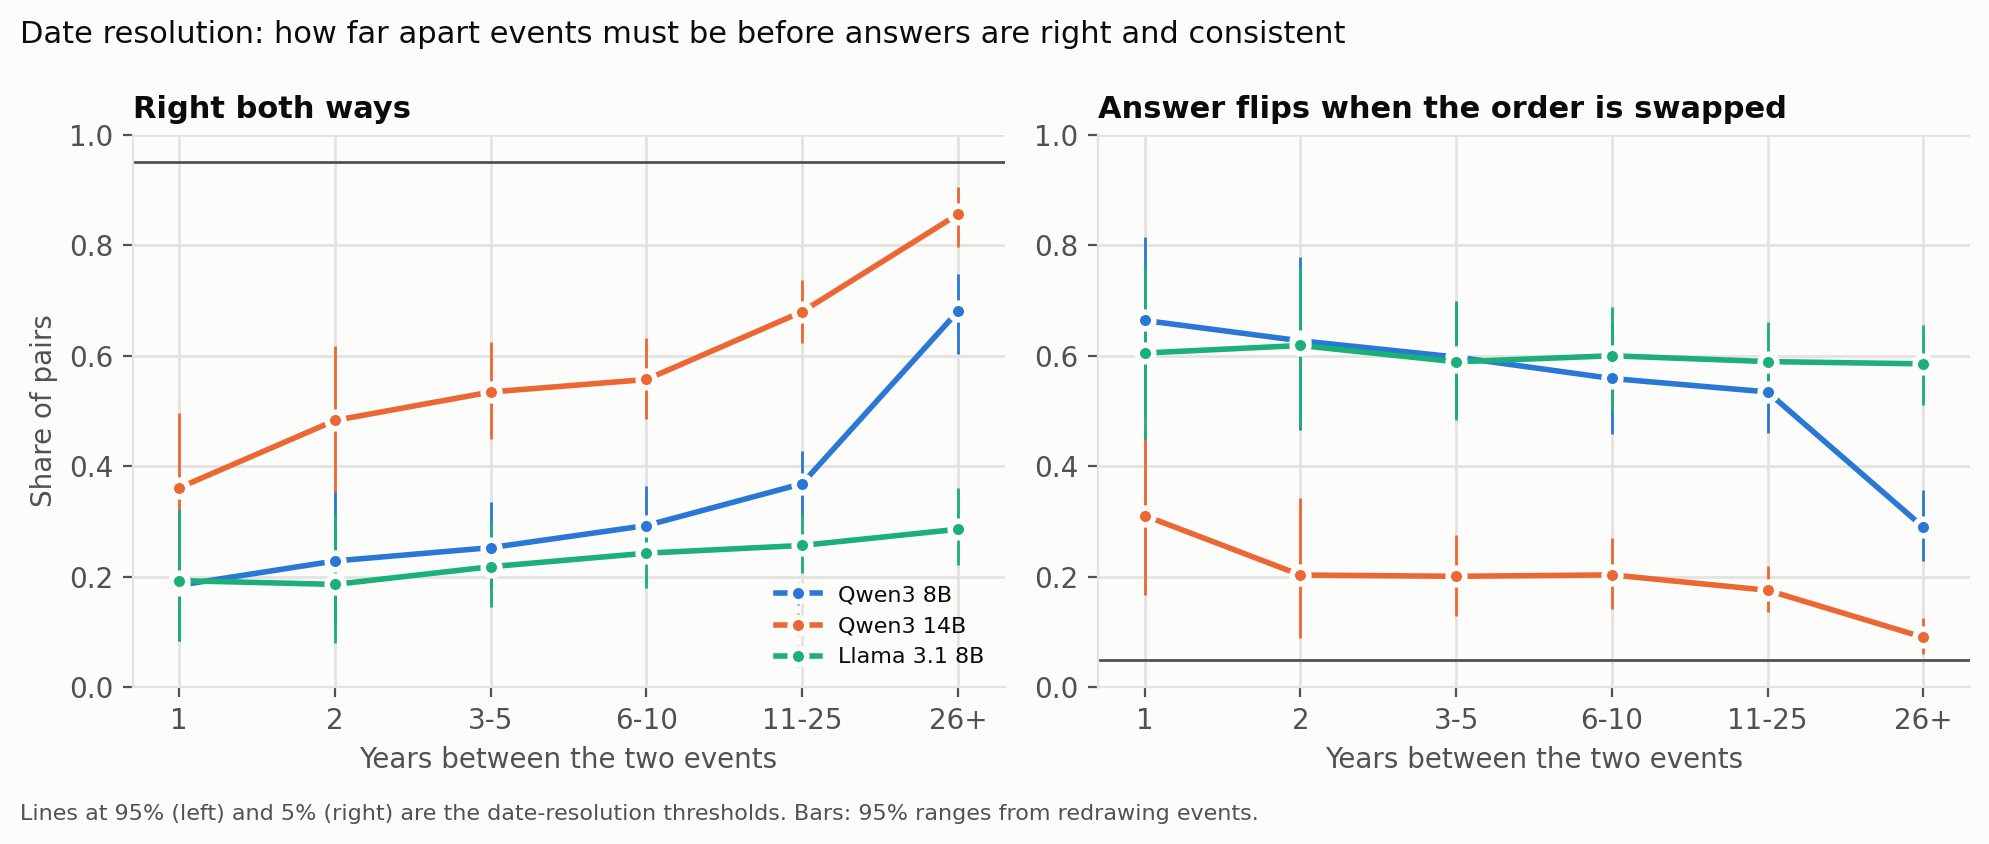
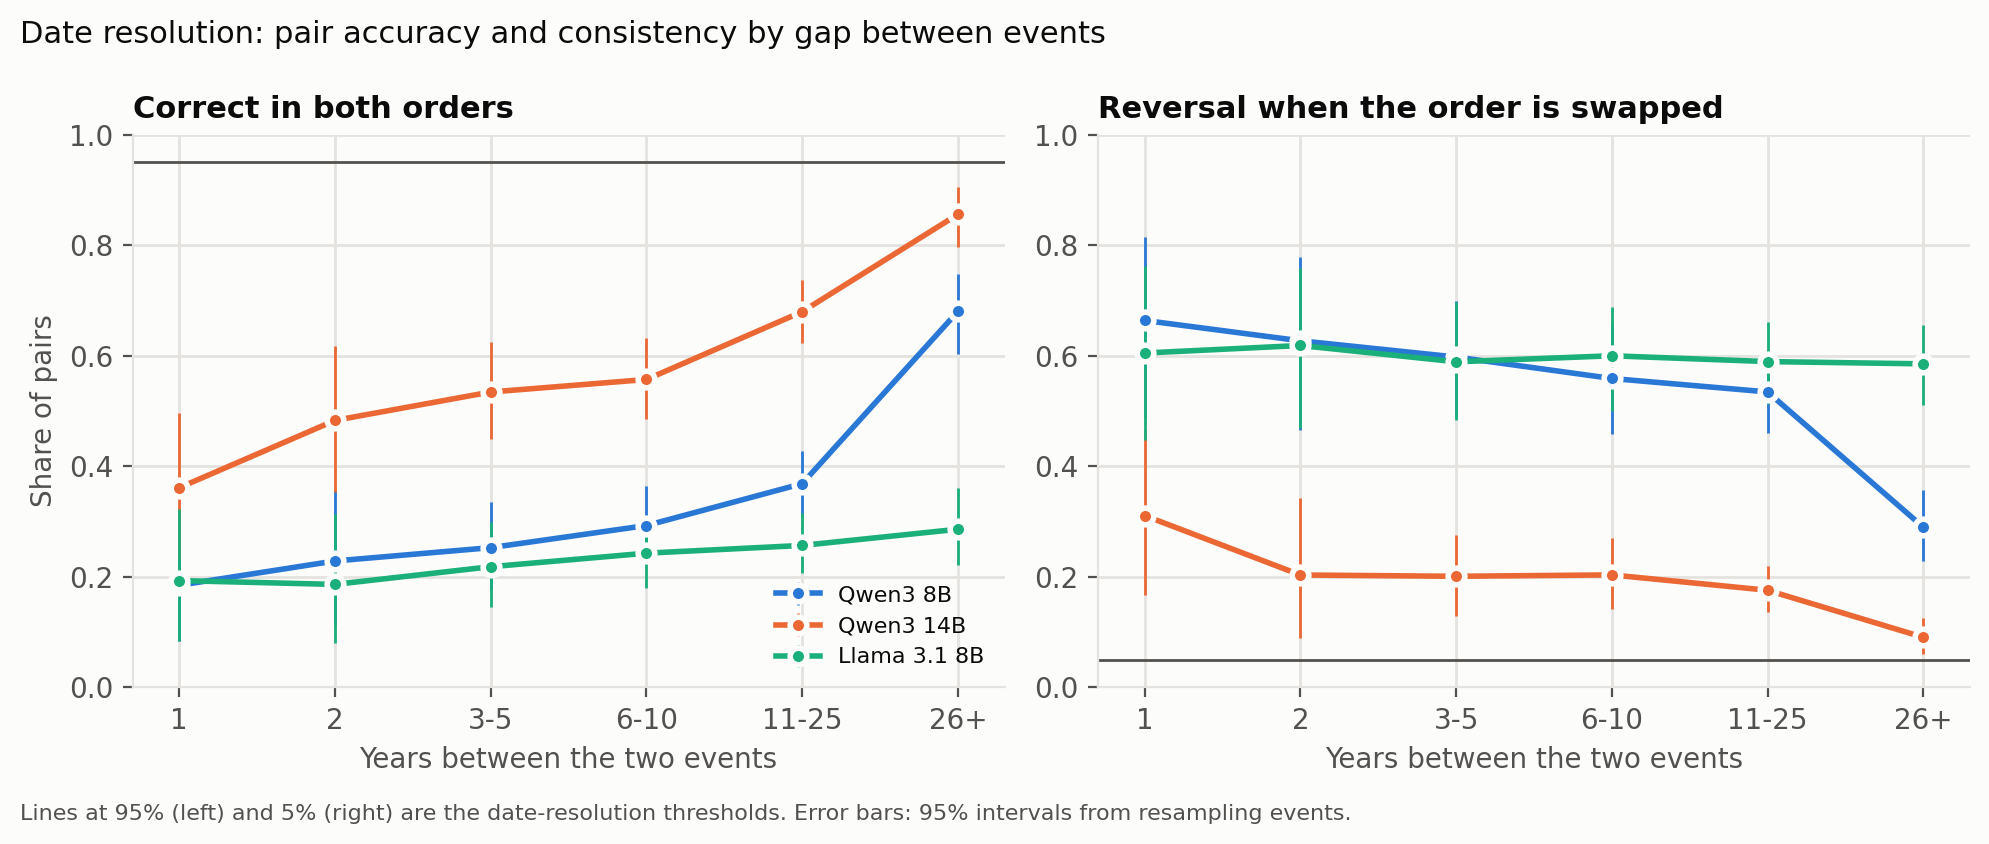
Pre-publication pass: report all pre-registered list measures, align figure labels with the report, cite license sources, add requirements.txt

diff --git a/src/make_figures.py b/src/make_figures.py
@@ -23,7 +23,7 @@ SURFACE, INK, MUTED, GRID = "#fcfcfb", "#0b0b0b", "#52514e", "#e4e3df"
 SLOT = ["#2a78d6", "#eb6834", "#1baf7a"]
 GRAY = "#a9a8a2"
 NAMES = {"qwen3-8b-nothink": "Qwen3 8B", "qwen3-14b-nothink": "Qwen3 14B",
-         "qwen3-8b-think": "Qwen3 8B, thinking on", "llama3.1-8b": "Llama 3.1 8B"}
+         "qwen3-8b-think": "Qwen3 8B, reasoning enabled", "llama3.1-8b": "Llama 3.1 8B"}
 # gpt-oss-20b-low was skipped and llama3.1-8b added (PREREG.md Deviations, Oct 12, 2026).
 PAIR_SETUPS = ["qwen3-8b-nothink", "qwen3-14b-nothink", "llama3.1-8b"]
 LIST_SETUPS = ["qwen3-8b-nothink", "qwen3-14b-nothink", "llama3.1-8b", "qwen3-8b-think"]
@@ -68,8 +68,8 @@ def fig_date_resolution(res):
         return
     fig, axes = plt.subplots(1, 2, figsize=(10, 4), sharex=True)
     rows = []
-    for panel, (kind, title, ref) in enumerate([("stable-right", "Right both ways", 0.95),
-                                                 ("flip", "Answer flips when the order is swapped", 0.05)]):
+    for panel, (kind, title, ref) in enumerate([("stable-right", "Correct in both orders", 0.95),
+                                                 ("flip", "Reversal when the order is swapped", 0.05)]):
         ax = axes[panel]
         for s in setups:
             k = PAIR_SETUPS.index(s)  # color follows the model, not how many models have data yet
@@ -95,10 +95,10 @@ def fig_date_resolution(res):
         ax.set_xlim(-0.3, len(BANDS) - 0.7)
     axes[0].set_ylabel("Share of pairs")
     axes[0].legend(loc="lower right", fontsize=8)
-    fig.suptitle("Date resolution: how far apart events must be before answers are right and consistent",
+    fig.suptitle("Date resolution: pair accuracy and consistency by gap between events",
                  x=0.01, ha="left", fontsize=11)
     fig.text(0.01, -0.02, "Lines at 95% (left) and 5% (right) are the date-resolution thresholds. "
-             "Bars: 95% ranges from redrawing events.", fontsize=8, color=MUTED)
+             "Error bars: 95% intervals from resampling events.", fontsize=8, color=MUTED)
     fig.tight_layout()
     fig.savefig(FIGURES / "fig1_date_resolution.png", dpi=200, bbox_inches="tight")
     plt.close(fig)
@@ -110,9 +110,9 @@ def fig_list_mistakes(res):
     setups = [s for s in LIST_SETUPS if s in res and "lists" in res[s]]
     if not setups:
         return
-    kinds = [("C", "List-only (right on the pair alone)", SLOT[0]),
-             ("B", "Wrong on the pair alone too", SLOT[1]),
-             ("U", "Unsure on the pair alone (flips)", SLOT[2]),
+    kinds = [("C", "List-only (correct on the pair alone)", SLOT[0]),
+             ("B", "Incorrect on the pair alone", SLOT[1]),
+             ("U", "Reversal on the pair alone", SLOT[2]),
              ("X", "Pair answer unreadable", GRAY)]
     fig, axes = plt.subplots(1, len(setups), figsize=(3.2 * len(setups), 4.2), sharey=True, squeeze=False)
     rows = []
@@ -135,10 +135,10 @@ def fig_list_mistakes(res):
         ax.set_title(NAMES[s], loc="left", fontsize=9)
         ax.set_xlabel("Events in the list")
         ax.set_ylim(0, 1.06)
-    axes[0][0].set_ylabel("Share of wrong neighbor pairs")
+    axes[0][0].set_ylabel("Share of adjacent errors")
     handles, labels = axes[0][0].get_legend_handles_labels()
     fig.legend(handles, labels, loc="lower center", ncol=4, fontsize=8, bbox_to_anchor=(0.5, -0.06))
-    fig.suptitle("Where list mistakes come from: would the model also get that pair wrong on its own?",
+    fig.suptitle("Origin of list errors: classification of each adjacent error by the model's answer on that pair alone",
                  x=0.01, ha="left", fontsize=11)
     fig.tight_layout()
     fig.savefig(FIGURES / "fig2_list_mistakes.png", dpi=200, bbox_inches="tight")
@@ -176,10 +176,10 @@ def fig_penalty_and_integrity(res):
         ax.bar([str(l) for l in LENGTHS], [v or 0 for v in valid], color=SLOT[0], width=0.55)
         ax.set_ylim(0, 1)
         ax.set_xlabel("Events in the list")
-    axes[0][0].set_ylabel("List penalty\n(observed minus predicted\nwrong neighbor pairs)")
+    axes[0][0].set_ylabel("List penalty\n(observed minus predicted\nadjacent errors per list)")
     axes[1][0].set_ylabel("Share of lists with every\nevent exactly once")
-    fig.suptitle("Top: extra mistakes beyond what the model's own pair answers predict.  "
-                 "Bottom: list integrity.", x=0.01, ha="left", fontsize=11)
+    fig.suptitle("Top: adjacent errors beyond those predicted by the model's own pair answers.  "
+                 "Bottom: list completeness.", x=0.01, ha="left", fontsize=11)
     fig.tight_layout()
     fig.savefig(FIGURES / "fig3_penalty_and_integrity.png", dpi=200, bbox_inches="tight")
     plt.close(fig)

diff --git a/writeup/REPORT.md b/writeup/REPORT.md
@@ -187,7 +187,7 @@ incorrect.
 
 #### 3.3 List ordering: the origin of errors (Q2)
 
-| | Length | Valid lists | Adjacent errors | B: wrong on pair | U: reversal on pair | C: list-only [interval] | List penalty per list [interval] |
+| | Length | Valid lists | Adjacent errors | B: incorrect on pair | U: reversal on pair | C: list-only [interval] | List penalty per list [interval] |
 |---|---|---|---|---|---|---|---|
 | Qwen3 8B | 5 | 100% | 168 | 20% | 61% | 19% [14 to 24] | 0.00 [-0.23 to 0.23] |
 | | 10 | 88% | 319 | 16% | 59% | 25% [21 to 30] | -0.06 [-0.34 to 0.22] |
@@ -220,9 +220,35 @@ incomplete 20-event answer omitted at least one event.
 
 ![List penalty and completeness](../figures/fig3_penalty_and_integrity.png)
 
+**Further pre-registered list measures** (`PREREG.md` sections 5 and 6). *Exact match* is the share of all lists
+ordered exactly correctly. *Kendall tau* measures agreement between a valid list and the true order, from -1
+(reversed) to 1 (identical). *Misdated* is the share of adjacent errors flagged A, meaning the model's own year
+answers place the two events in the same wrong order. The *secondary analysis* applies the same classification to all
+lists, including incomplete ones, using the first appearance of each code; its list-only shares are within 4 percentage points
+of the main analysis in every case.
+
+| | Length | Exact match | Mean Kendall tau (valid lists) | Misdated | List-only share, secondary analysis |
+|---|---|---|---|---|---|
+| Qwen3 8B | 5 | 3% | 0.16 | 19% | 19% |
+| | 10 | 0% | 0.31 | 16% | 25% |
+| | 20 | 0% | 0.33 | 12% | 29% |
+| Qwen3 14B | 5 | 7% | 0.29 | 13% | 35% |
+| | 10 | 0% | 0.40 | 9% | 47% |
+| | 20 | 0% | 0.41 | 9% | 46% |
+| Llama 3.1 8B | 5 | 3% | 0.27 | 14% | 16% |
+| | 10 | 0% | 0.36 | 11% | 20% |
+| | 20 | 0% | 0.34 | 8% | 22% |
+| Qwen3 8B, reasoning enabled | 5 | 57% | 0.80 | 60% | 18% |
+| | 10 | 26% | 0.83 | 49% | 27% |
+| | 20 | 0% | 0.86 | 52% | 26% |
+
+Source: `data/processed/results/<setup>.json` (`exact_share_of_all`, `mean_tau_valid`, `misdated_share`,
+`secondary_type_share`). With reasoning disabled, exact match fell to zero for every model at 10 and 20 events, consistent
+with the sharp decline in exact ordering with list length reported by Wongchamcharoen and Glasserman (2025).
+
 #### 3.4 Effect of reasoning (Qwen3 8B, same lists)
 
-| Length | Exactly correct, thinking off / on | Valid, off / on | Adjacent errors per valid list, off / on | List-only share, off / on (difference [interval]) | Wrong-on-pair share, off / on (difference [interval]) |
+| Length | Exactly correct, thinking off / on | Valid, off / on | Adjacent errors per valid list, off / on | List-only share, off / on (difference [interval]) | Incorrect-on-pair share, off / on (difference [interval]) |
 |---|---|---|---|---|---|
 | 5 | 3% / 57% | 100% / 100% | 1.9 / 0.5 | 19% / 18% (-1 [-13 to +12]) | 20% / 31% (+11 [-1 to +25]) |
 | 10 | 0% / 26% | 88% / 94% | 4.0 / 1.2 | 25% / 28% (+3 [-6 to +11]) | 16% / 25% (+9 [+0.4 to +18]) |
@@ -235,7 +261,7 @@ with intervals from paired resampling of the same lists (`p6_thinking.json`).
 - With thinking enabled, lists outperformed the predictions of the thinking-disabled pair answers by 1.4 (5 events),
   2.7 (10 events) and 5.3 (20 events) adjacent errors per list (intervals 1.2 to 1.5, 2.4 to 2.9 and 4.7 to 5.9).
 - **P6 was not supported.** Reasoning reduced all categories of error by broadly similar proportions, so the list-only
-  share did not fall more than the wrong-on-pair share. At 10 events the wrong-on-pair share increased.
+  share did not fall more than the incorrect-on-pair share. At 10 events the incorrect-on-pair share increased.
 - With thinking enabled, 60%, 49% and 52% of the remaining adjacent errors (5, 10 and 20 events) involved events
   whose years the model had placed in the same wrong order when asked directly, compared with 19%, 16% and 12% with
   thinking disabled.
@@ -249,7 +275,7 @@ with intervals from paired resampling of the same lists (`p6_thinking.json`).
 | P3: cycles among consistent judgments are rarer than chance | **Supported** for all three models (p < 0.001). |
 | P4: with thinking disabled, the list-only share increases with length | **Supported** for Qwen3 8B (19% to 31%, non-overlapping intervals); **partially supported** for Qwen3 14B (increase from 5 to 10 events, no change from 10 to 20); **not supported** for Llama 3.1 8B (no change). |
 | P5: incomplete lists become more frequent with length | **Supported** for every setup (valid share at 20 events: 25% to 55%). |
-| P6: reasoning reduces list-only errors more than wrong-on-pair errors | **Not supported.** |
+| P6: reasoning reduces list-only errors more than incorrect-on-pair errors | **Not supported.** |
 
 ### 4. Deviations from the pre-registration
 
@@ -311,5 +337,7 @@ See `README.md`. All results can be regenerated from the saved raw replies witho
   arXiv:2511.14214. https://arxiv.org/abs/2511.14214 (accessed October 12, 2026).
 - English Wikipedia year pages, 1900 to 2019 (CC BY-SA 4.0), and Wikidata (CC0), retrieved October 12, 2026; revision
   identifiers are recorded in `data/raw/SOURCES.md`.
-- Models: Qwen3 (Apache 2.0) and Llama 3.1 (Llama 3.1 Community License), run with Ollama 0.40.3; licenses as recorded
-  in `PREREG.md` section 3 and Deviations (accessed October 12, 2026).
+- Models: Qwen3 (Apache 2.0) and Llama 3.1 (Llama 3.1 Community License), run with Ollama 0.40.3. License texts
+  consulted on October 12, 2026: https://huggingface.co/Qwen/Qwen3-8B (license field and LICENSE file) and
+  https://github.com/meta-llama/llama-models/blob/main/models/llama3_1/LICENSE with its Acceptable Use Policy. This
+  repository publishes model replies only, not model weights. The replies are AI-generated text.

diff --git a/README.md b/README.md
@@ -48,8 +48,10 @@ All three models were run with reasoning disabled. Sources and 95% intervals are
 
 ## Setup
 
+Python 3.14 was used (3.10 or later is expected to work, but has not been tested).
+
 ```
-pip install numpy matplotlib
+pip install -r requirements.txt
 ```
 
 ## Usage
